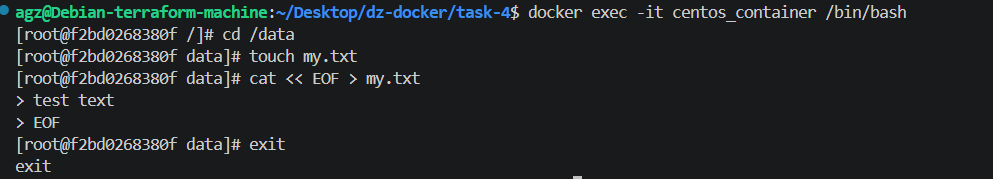
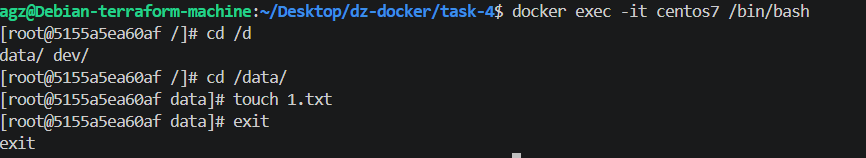
3

Changed region(s): [[0.0, 0.0253, 0.9353, 0.8608], [0.0, 0.8861, 0.0624, 0.962], [0.5612, 0.962, 0.6236, 1.0]]

diff --git a/README.md b/README.md
@@ -69,15 +69,10 @@ Hey, Netology
 
 - Подключитесь к первому контейнеру с помощью ```docker exec``` и создайте текстовый файл любого содержания в ```/data```.
 ![alt text](img/image-10.png)
-
 - Добавьте ещё один файл в текущий каталог ```$(pwd)``` на хостовой машине.
 ![alt text](img/image-11.png)
-
 - Подключитесь во второй контейнер и отобразите листинг и содержание файлов в ```/data``` контейнера.
 ![alt text](img/image-12.png)
-
-ps: не получилось создать машину с debian падало в ошибку time out
-![alt text](img/image-13.png)
 
 В качестве ответа приложите скриншоты консоли, где видно все введенные команды и их вывод.
 
